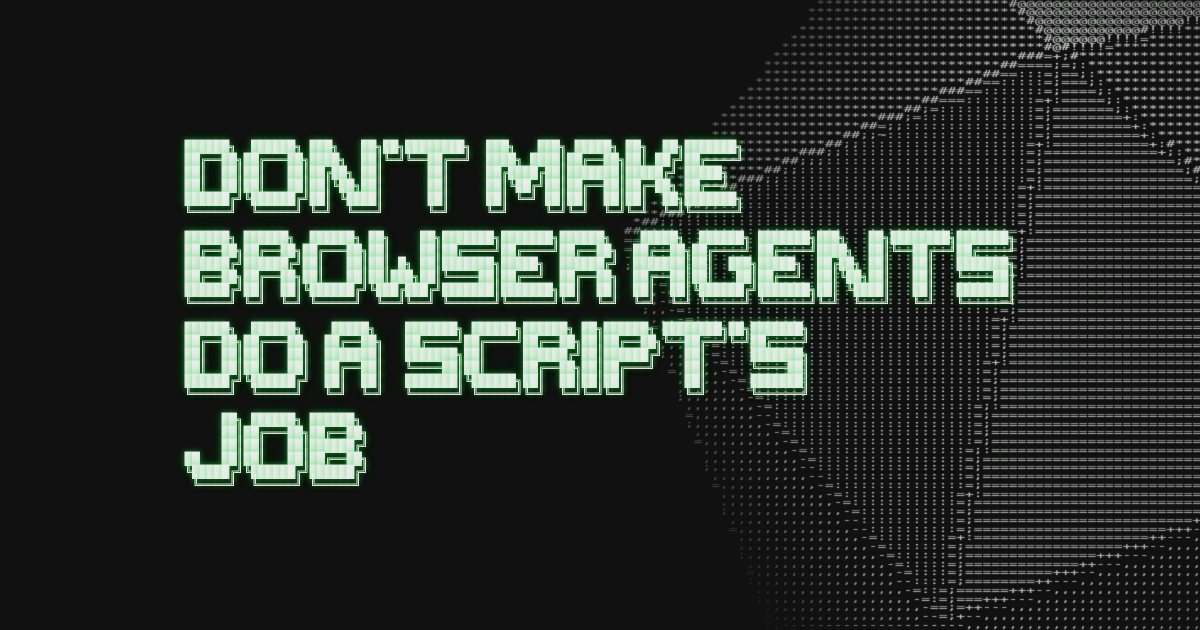
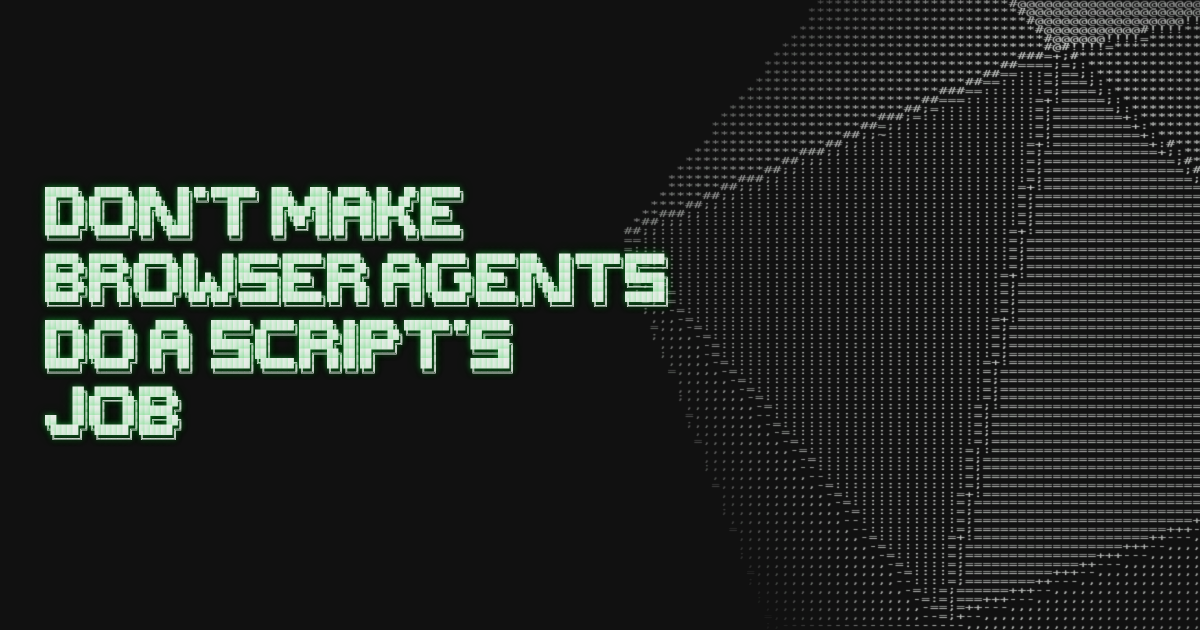
Adjust OG image title placement

Changed region(s): [[0.0308, 0.2111, 0.8633, 0.7841]]

diff --git a/apps/website/src/OgImage.tsx b/apps/website/src/OgImage.tsx
@@ -243,11 +243,11 @@ export function OgImage() {
           style={{ width: OG_WIDTH, height: OG_HEIGHT }}
           className="relative overflow-hidden bg-bg"
         >
-          <div className="absolute inset-0 z-10 flex items-center justify-center px-10">
+          <div className="absolute inset-y-0 left-0 z-10 flex w-[690px] items-center pl-12">
             <pre
               aria-label="Don't make browser agents do a script's job"
               className="crt-glow whitespace-pre font-mono font-semibold leading-none tracking-[-0.05em] text-ink"
-              style={{ fontSize: 13 }}
+              style={{ fontSize: 9.5 }}
             >
               {TITLE_ASCII}
             </pre>